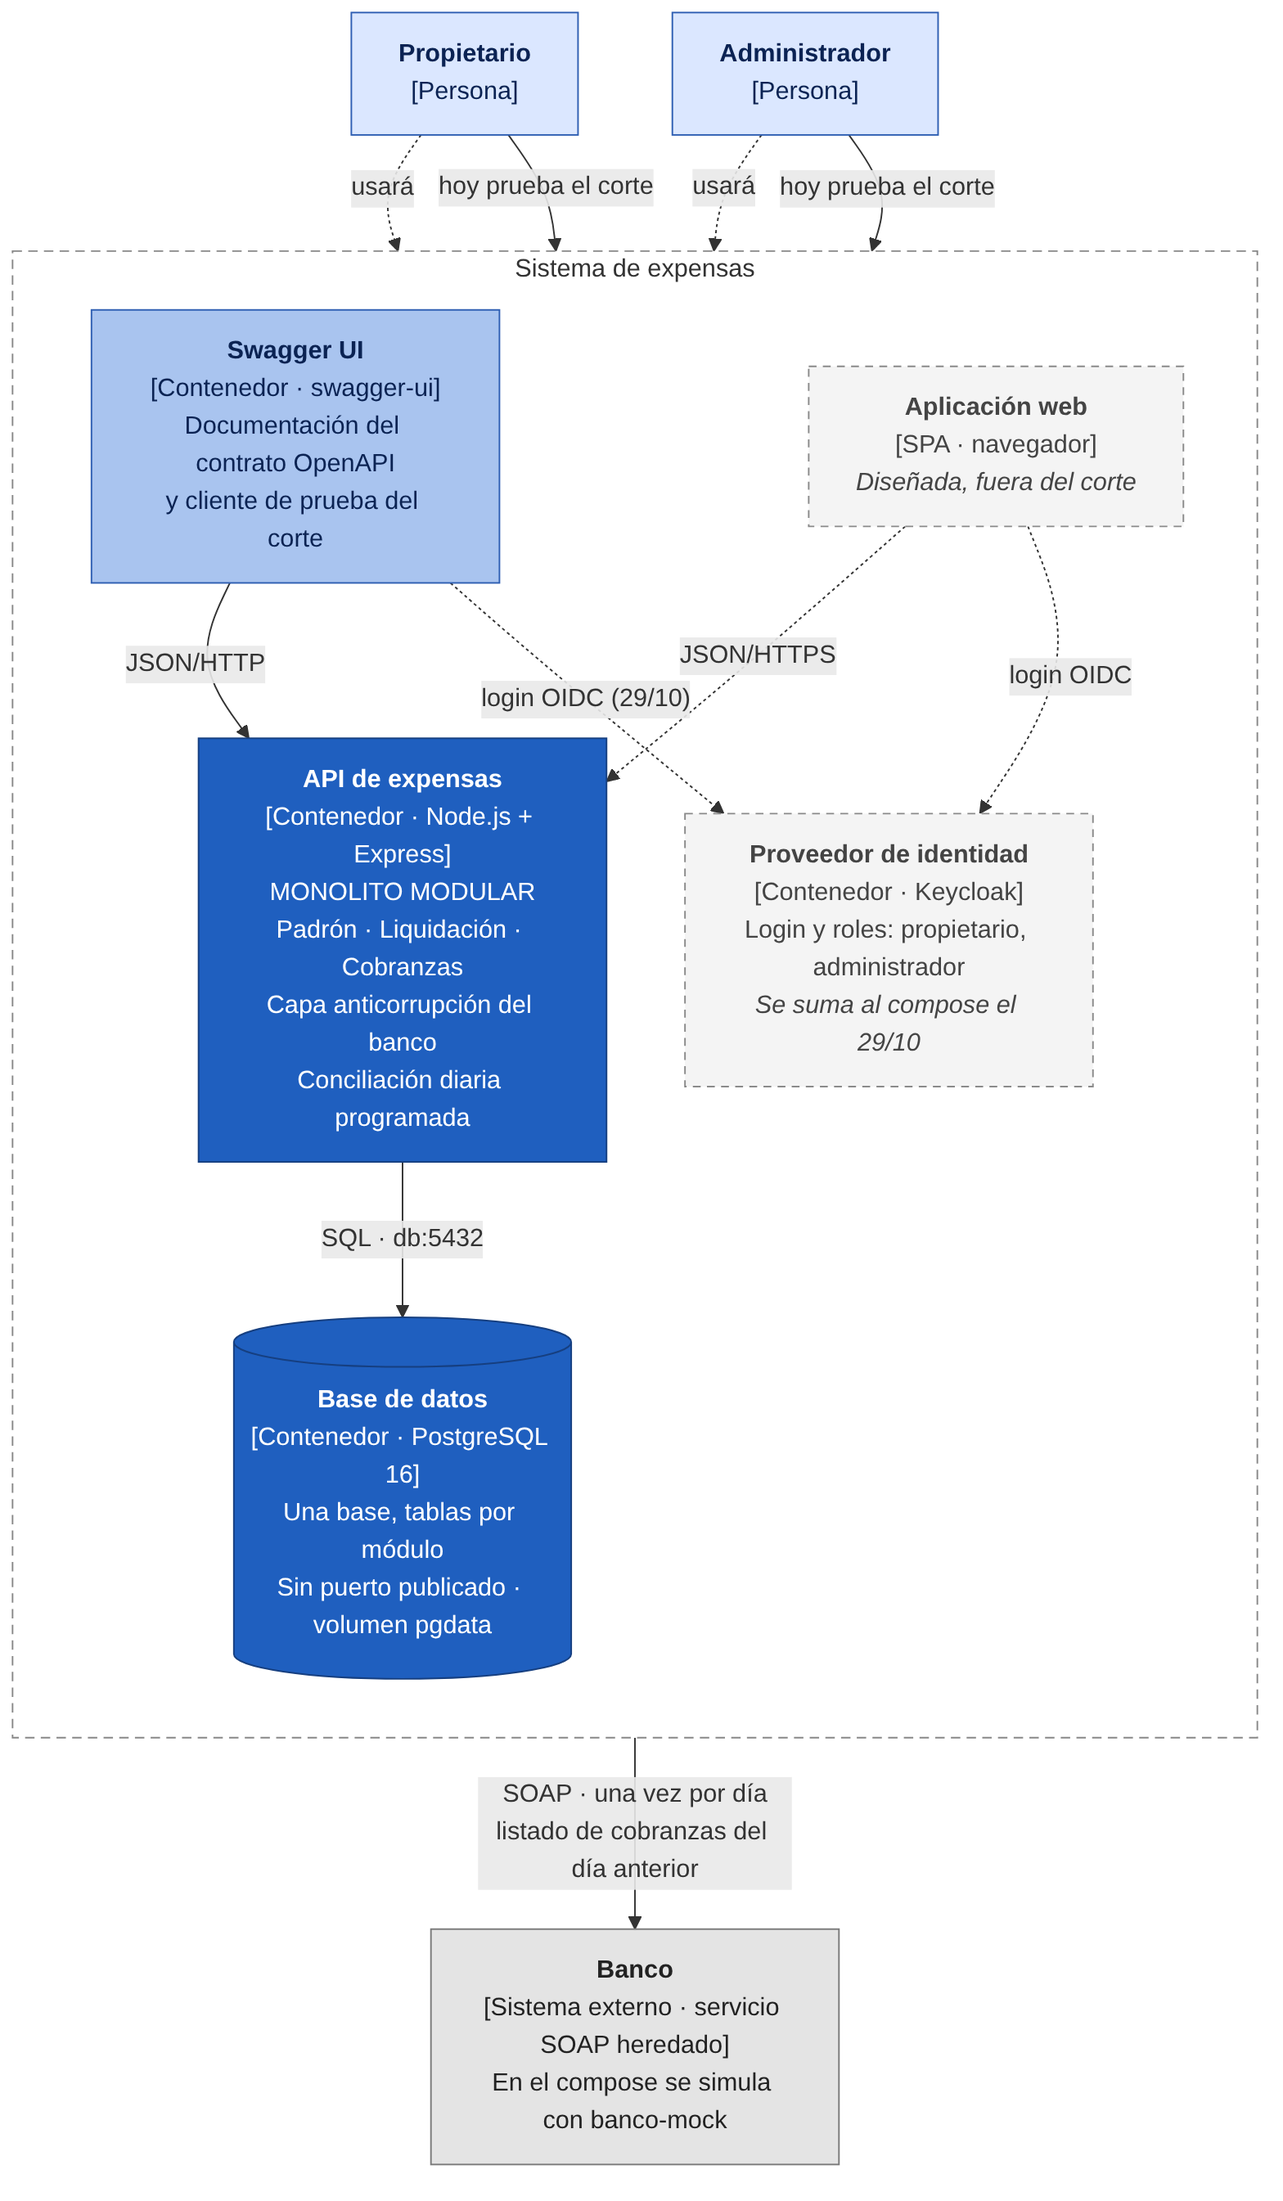
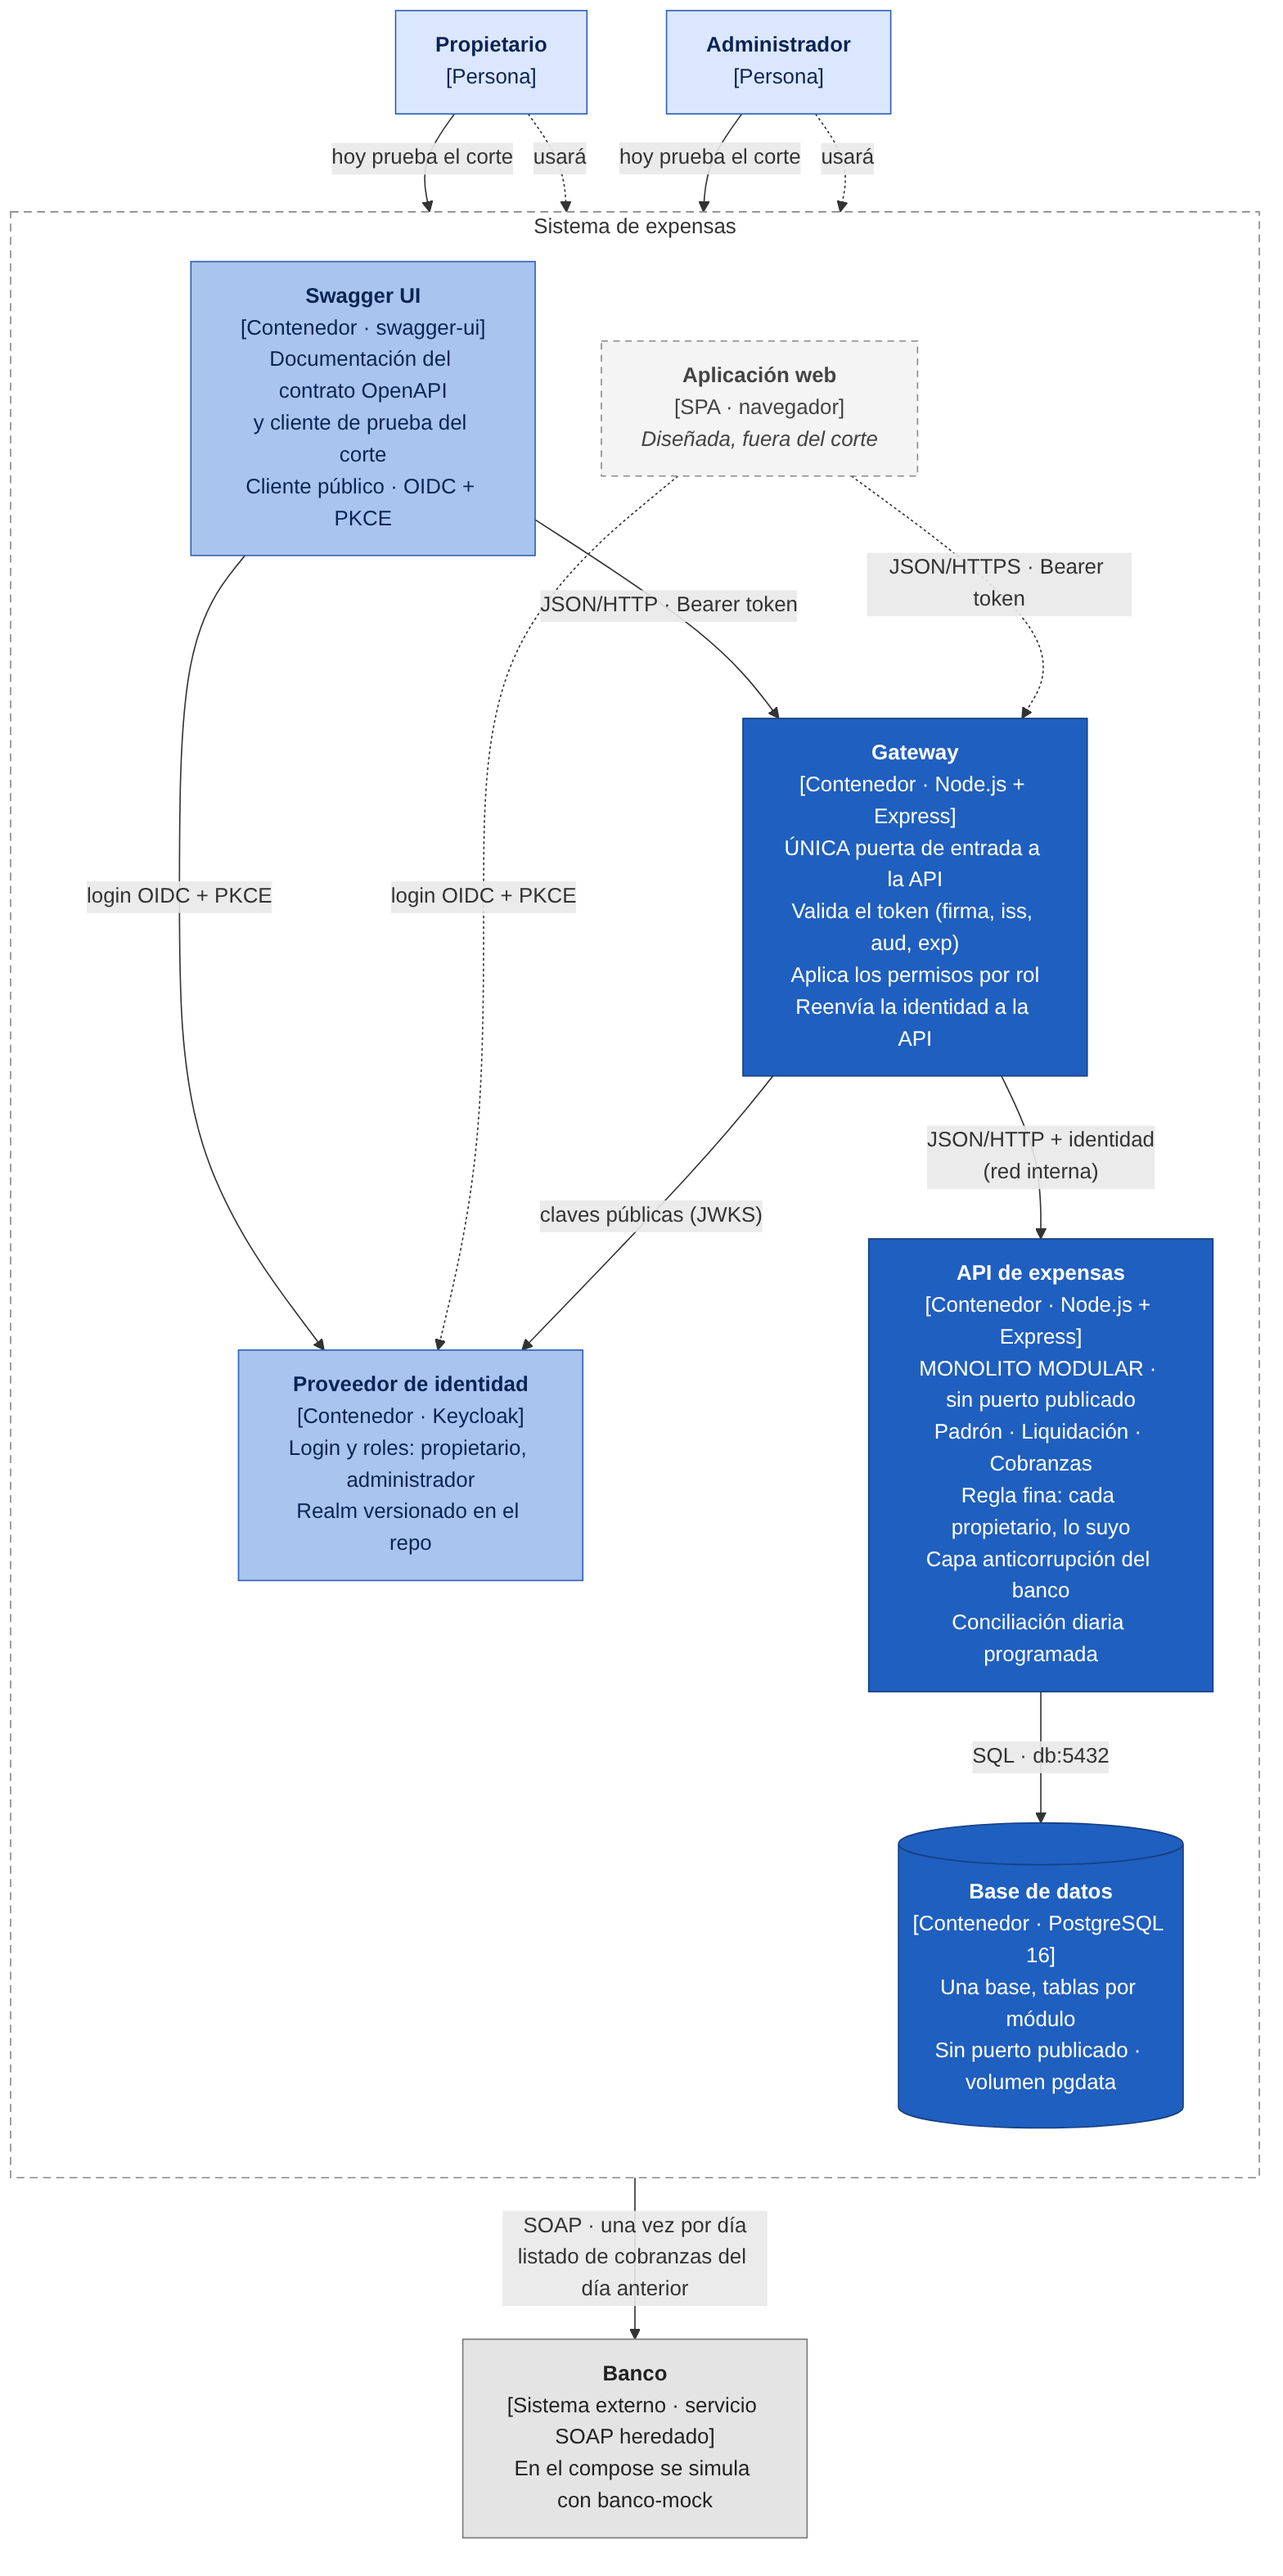
Decisiones de seguridad: matriz de permisos, gateway y proveedor de identidad

diff --git a/docs/arquitectura.md b/docs/arquitectura.md
@@ -190,10 +190,11 @@ Se comparan tres alternativas contra un baseline, que por definición puntúa 0 
 
 | Contenedor | Tecnología | Responsabilidad | Estado |
 |---|---|---|---|
-| API de expensas | Node.js + Express | Monolito modular con los módulos Padrón, Liquidación y Cobranzas, la capa anticorrupción del banco y la conciliación diaria programada | En el compose desde esta etapa |
-| Base de datos | PostgreSQL 16 | Datos de los tres módulos, en tablas separadas por módulo. Sin puerto publicado, con volumen con nombre y healthcheck | En el compose desde esta etapa |
-| Swagger UI | swagger-ui | Muestra el contrato OpenAPI y sirve como cliente de prueba del corte | En el compose desde esta etapa |
-| Proveedor de identidad | Keycloak | Login y roles (propietario, administrador) | Diseñado; se suma al compose en la etapa del 29/10 |
+| Gateway | Node.js + Express | Única puerta de entrada a la API: valida el token, aplica los permisos por rol y reenvía la identidad del usuario a la API | En el compose desde el 29/10 |
+| API de expensas | Node.js + Express | Monolito modular con los módulos Padrón, Liquidación y Cobranzas, la capa anticorrupción del banco y la conciliación diaria programada. Aplica la regla fina (cada propietario, lo suyo). Sin puerto publicado desde el 29/10 | En el compose desde el 22/10 |
+| Base de datos | PostgreSQL 16 | Datos de los tres módulos, en tablas separadas por módulo. Sin puerto publicado, con volumen con nombre y healthcheck | En el compose desde el 22/10 |
+| Swagger UI | swagger-ui | Muestra el contrato OpenAPI y sirve como cliente de prueba del corte, con login OIDC | En el compose desde el 22/10 |
+| Proveedor de identidad | Keycloak | Login y roles (propietario, administrador), con el realm versionado en el repo | En el compose desde el 29/10 |
 | Aplicación web | SPA en el navegador | Interfaz para propietarios y administrador | Diseñada, fuera del corte |
 
 **Sistema externo:** el banco, con su servicio SOAP heredado. En el compose se simula con un servicio `banco-mock`, pero en el diagrama se muestra como externo porque no es parte del sistema.
@@ -202,7 +203,7 @@ Se comparan tres alternativas contra un baseline, que por definición puntúa 0 
 
 - **Sin BFF:** el esqueleto de la Clase 10 traía un BFF para una app mobile. Se elimina porque hay un solo tipo de cliente y el equipo es chico, que son justamente los casos en que un BFF no conviene.
 - **La conciliación corre dentro de la API**, como una tarea programada, en lugar de un contenedor aparte (ADR-004).
-- **Dónde se valida el token** (en la API o en un gateway) se decide en la etapa del 29/10, junto con el login. Por eso el diagrama todavía no muestra un gateway.
+- **El token se valida en un gateway** delante de la API (ADR-006). La API no publica su puerto: desde afuera solo se llega a ella a través del gateway.
 
 ---
 
@@ -268,13 +269,71 @@ El contrato completo va en `openapi.yaml` y se muestra con Swagger UI. Incluye s
 - **Versionado en la URI** (`/v1`).
 - **Errores con Problem Details** (`application/problem+json`).
 - **`PUT` para el código de pago:** si el propietario reintenta (por ejemplo, porque se le cortó la conexión), tiene que recibir el mismo código y no uno nuevo. `PUT` es idempotente por definición: la primera vez crea el código (201) y las siguientes lo devuelven (200).
-- La seguridad del contrato (`securitySchemes`) se agrega en la etapa del 29/10, junto con el login.
+- **Seguridad:** todas las operaciones, salvo `/health`, requieren un token de acceso (`securitySchemes` del contrato). Los permisos de cada rol están en la sección 9.
 
 ---
 
 ## 9. Seguridad
 
-*Pendiente (29/10): proveedor de identidad, roles y matriz de permisos.*
+### 9.1 Autenticación delegada
+
+La autenticación es un subdominio **genérico**: no se construye, se adopta. Se delega en un **proveedor de identidad** que implementa OpenID Connect (Keycloak), con un realm versionado en el repositorio que se importa al levantar el sistema (ADR-005). La aplicación nunca ve las contraseñas: recibe un token de acceso firmado.
+
+La **autorización**, en cambio, es en parte propia del dominio: el proveedor sabe quién tiene qué rol, pero qué puede hacer cada rol, y sobre qué unidades, lo decide el sistema.
+
+### 9.2 Actores y roles
+
+| Rol | Quién es | Usuarios de prueba |
+|---|---|---|
+| `propietario` | Ve y paga **su** expensa | `paula` (unidades 2B del consorcio 1 y 1A del consorcio 3), `pablo` (unidad 4C del consorcio 2) |
+| `administrador` | Liquida y concilia | `adriana` |
+
+### 9.3 Matriz de permisos
+
+| Operación | Propietario | Administrador | Sin token |
+|---|:-:|:-:|:-:|
+| `GET /health` | ✓ | ✓ | ✓ (público) |
+| `GET /v1/expensas` | ✓ solo las suyas | ✓ todas | 401 |
+| `GET /v1/expensas/{id}` | ✓ si es suya; si no, 403 | ✓ | 401 |
+| `PUT /v1/expensas/{id}/codigo-pago` | ✓ si es suya; si no, 403 | ✓ cualquiera | 401 |
+| `POST /v1/conciliaciones` | 403 | ✓ | 401 |
+| `GET /v1/conciliaciones/{id}` | 403 | ✓ | 401 |
+| `GET /v1/cobranzas` | 403 | ✓ | 401 |
+
+- **401:** falla la autenticación (no hay token, está vencido o su firma no es válida).
+- **403:** el usuario está autenticado, pero su rol o su relación con la unidad no le permiten la operación.
+- Los dos errores se devuelven en formato Problem Details.
+
+**Por qué el administrador puede pedir el código de pago:** la mayoría de los propietarios no tiene cuenta en el sistema y recibe el código impreso en la boleta de expensas que entrega el administrador. Pedir el código no mueve dinero: solo identifica la expensa ante el banco, y siempre es el mismo para cada expensa.
+
+### 9.4 Clientes y flujos
+
+| Cliente | Tipo | Flujo |
+|---|---|---|
+| Swagger UI (cliente del corte) | Público: corre en el navegador y no puede guardar un secreto | Authorization Code con PKCE, con redirect URI exacto |
+| Aplicación web (diseñada, fuera del corte) | Público | Authorization Code con PKCE |
+
+El token de acceso dura **5 minutos** y está emitido para la audiencia `api-expensas`: un token emitido para otra aplicación no sirve en esta.
+
+### 9.5 Dónde se valida el token
+
+En un **gateway** que es la única puerta de entrada a la API (ADR-006). En cada pedido verifica:
+
+1. la **firma**, con las claves públicas del proveedor de identidad (se descargan una vez y quedan en caché);
+2. el **emisor** (`iss`): lo emitió nuestro proveedor;
+3. la **audiencia** (`aud`): es para nuestra API;
+4. el **vencimiento** (`exp`);
+5. el **rol**, según la matriz de permisos.
+
+Si el pedido pasa, el gateway lo reenvía a la API agregando la identidad del usuario (`X-Usuario` y `X-Roles`). Antes borra esos encabezados si los mandó el cliente, para que nadie pueda hacerse pasar por otro usuario.
+
+### 9.6 La regla fina
+
+> Un propietario solo ve y paga **sus** expensas.
+
+El rol `propietario` no alcanza para expresarla: dice qué es el usuario, pero no de qué unidades es dueño. La resuelve la **API**, cruzando el usuario que recibe del gateway con el propietario de cada unidad, que es un dato del Padrón. Por eso esa regla no vive en el proveedor de identidad, que solo sabe quién tiene qué rol.
+
+El usuario se identifica por su nombre de usuario (`preferred_username`), que coincide con el que guarda el Padrón. En el realm, los usuarios no pueden cambiar su nombre de usuario.
 
 ## 10. Decisiones de arquitectura (ADRs)
 
@@ -284,6 +343,8 @@ El contrato completo va en `openapi.yaml` y se muestra con Swagger UI. Incluye s
 | [ADR-002](adr/ADR-002-base-relacional-unica.md) | Una sola base relacional (PostgreSQL), con el dinero en centavos | Aceptada |
 | [ADR-003](adr/ADR-003-integracion-banco-soap.md) | Integración con el banco: descarga diaria por SOAP con capa anticorrupción | Aceptada |
 | [ADR-004](adr/ADR-004-conciliacion-diaria.md) | La conciliación diaria corre dentro de la API | Aceptada |
+| [ADR-005](adr/ADR-005-proveedor-de-identidad.md) | Autenticación delegada en un proveedor de identidad OIDC (Keycloak) | Aceptada |
+| [ADR-006](adr/ADR-006-validacion-en-gateway.md) | El token se valida en un gateway, que reenvía la identidad a la API | Aceptada |
 
 ## 11. Verificación de NFRs
 

diff --git a/docs/adr/ADR-006-validacion-en-gateway.md b/docs/adr/ADR-006-validacion-en-gateway.md
@@ -1,0 +1,39 @@
+# ADR-006: El token se valida en un gateway, que reenvía la identidad a la API
+
+**Estado:** Aceptada
+
+## Contexto
+
+Con el login delegado en un proveedor de identidad (ADR-005), cada pedido a la API llega con un token de acceso que hay que validar: la firma, el emisor (`iss`), la audiencia (`aud`) y el vencimiento (`exp`). Después hay que aplicar los permisos de cada rol (matriz de permisos, sección 9.3) y una regla fina que el rol no alcanza a expresar: cada propietario solo ve y paga sus expensas. Esa regla depende de los datos del Padrón, que son de la API.
+
+## Decisión
+
+Vamos a poner un **gateway** delante de la API, como **única puerta de entrada**:
+
+1. El gateway valida el token y aplica los permisos **por rol**. Si falla la autenticación responde 401; si el rol no alcanza, 403; los dos en Problem Details.
+2. Si el pedido pasa, lo reenvía a la API agregando la identidad del usuario en los encabezados `X-Usuario` y `X-Roles`. Antes **borra esos encabezados si los mandó el cliente**.
+3. La API **no publica su puerto**: solo se la alcanza por la red interna, a través del gateway. Por eso confía en los encabezados de identidad.
+4. La API resuelve la **regla fina**, porque es la que conoce de quién es cada unidad.
+
+## Alternativas
+
+| Alternativa | Por qué se descartó |
+|---|---|
+| Validar el token en la API, sin gateway | Ahorra un contenedor, pero mezcla la seguridad transversal con la lógica del dominio. Con el gateway, las reglas por rol quedan en un solo lugar y se leen como una tabla |
+| Validar en el gateway **y** en la API (el gateway reenvía el token y la API lo vuelve a validar) | Es defensa en profundidad: protege aunque alguien llegue a la API por otro camino. Pero duplica la validación y la configuración, y a esta escala, con la API sin puerto publicado, no se justifica |
+| Que la regla fina la resuelva el gateway | El gateway tendría que conocer el Padrón (de quién es cada unidad), que es un dato del dominio. Se rompería la propiedad de los datos de la API |
+
+## Consecuencias
+
+- (+) Las reglas por rol están en un solo lugar, separadas de la lógica de negocio.
+- (+) La API no expone su puerto: hay una sola puerta que vigilar.
+- (+) Si en el futuro hubiera más servicios, el gateway ya los protegería a todos.
+- (−) Es **un contenedor más** que construir y operar (en tensión con el NFR de simplicidad).
+- (−) Es un **punto único de falla**: si el gateway se cae, la API queda inaccesible.
+- (−) **La API confía en la red interna.** Asumimos a conciencia la falacia "la red es segura": si alguien alcanzara la API por otro camino, podría hacerse pasar por cualquier usuario con los encabezados de identidad. Lo mitiga que la API no publique su puerto ni esté en otra red que la interna.
+- (−) La autorización queda repartida: los permisos por rol en el gateway y la regla fina en la API.
+
+## NFRs
+
+- **Favorece:** seguridad (un único punto de entrada controlado), mantenibilidad (reglas por rol en un solo lugar).
+- **Perjudica:** simplicidad y costo (un contenedor más), disponibilidad (punto único de falla).

diff --git a/docs/adr/ADR-005-proveedor-de-identidad.md b/docs/adr/ADR-005-proveedor-de-identidad.md
@@ -1,0 +1,41 @@
+# ADR-005: Autenticación delegada en un proveedor de identidad OIDC (Keycloak)
+
+**Estado:** Aceptada
+
+## Contexto
+
+La consigna pide autenticación delegada en un proveedor de identidad que implemente OpenID Connect, con al menos dos roles con permisos distintos. El sistema tiene dos roles: propietario (ve y paga su expensa) y administrador (liquida y concilia). La autenticación es un subdominio genérico: un problema resuelto y estandarizado, que no es el diferencial del negocio. Lo mantiene un freelancer y corre en un hosting barato.
+
+## Decisión
+
+Vamos a delegar la autenticación en **Keycloak**, como un servicio más del compose:
+
+1. Un realm `expensas`, **versionado en el repositorio** e importado al levantar el sistema.
+2. Roles de realm `propietario` y `administrador`, con un usuario de prueba por rol.
+3. Swagger UI se registra como **cliente público** con Authorization Code + PKCE y redirect URI exacto.
+4. Los tokens de acceso duran **5 minutos** e incluyen la audiencia `api-expensas`.
+5. Los usuarios no pueden cambiar su nombre de usuario, porque es el dato que los vincula con sus unidades en el Padrón.
+
+## Alternativas
+
+| Alternativa | Por qué se descartó |
+|---|---|
+| Login propio con usuarios y contraseñas en una tabla | Es reinventar un subdominio genérico, y es muy fácil hacerlo mal: guardar contraseñas, sesiones, bloqueos |
+| Proveedor de identidad en la nube (servicio pago) | Suma una dependencia externa y un costo, y el sistema ya no se levanta completo con un solo comando |
+| SAML | Pensado para el ingreso corporativo en aplicaciones web con servidor; no resuelve el acceso a APIs con tokens. La clase recomienda OIDC salvo que haya que integrarse con un proveedor corporativo existente, que no es el caso |
+
+## Consecuencias
+
+- (+) La aplicación nunca ve contraseñas; recibe tokens firmados que puede validar sola.
+- (+) El realm versionado hace que todos los integrantes tengan el mismo entorno, con los mismos usuarios y roles.
+- (+) Agregar un segundo factor o cambiar la política de contraseñas se configura en el proveedor, sin tocar la aplicación.
+- (−) Es **un componente más que operar** para un freelancer.
+- (−) Es un **punto único de falla**: si el proveedor se cae, nadie puede iniciar sesión. Los tokens ya emitidos siguen validándose porque las claves públicas quedan en caché, pero vencen a los 5 minutos.
+- (−) **Consume bastante memoria** para un hosting barato. Se mide con `docker stats` en la verificación de esta etapa.
+- (−) Los tokens no se pueden revocar al instante; por eso duran solo 5 minutos.
+- (−) Las contraseñas de los usuarios de prueba están en el realm del repositorio: son solo para la demo.
+
+## NFRs
+
+- **Favorece:** seguridad (confidencialidad), mantenibilidad (no hay código de login propio).
+- **Perjudica:** simplicidad operativa y costo (un servicio más y su memoria), disponibilidad del login (punto único de falla).
